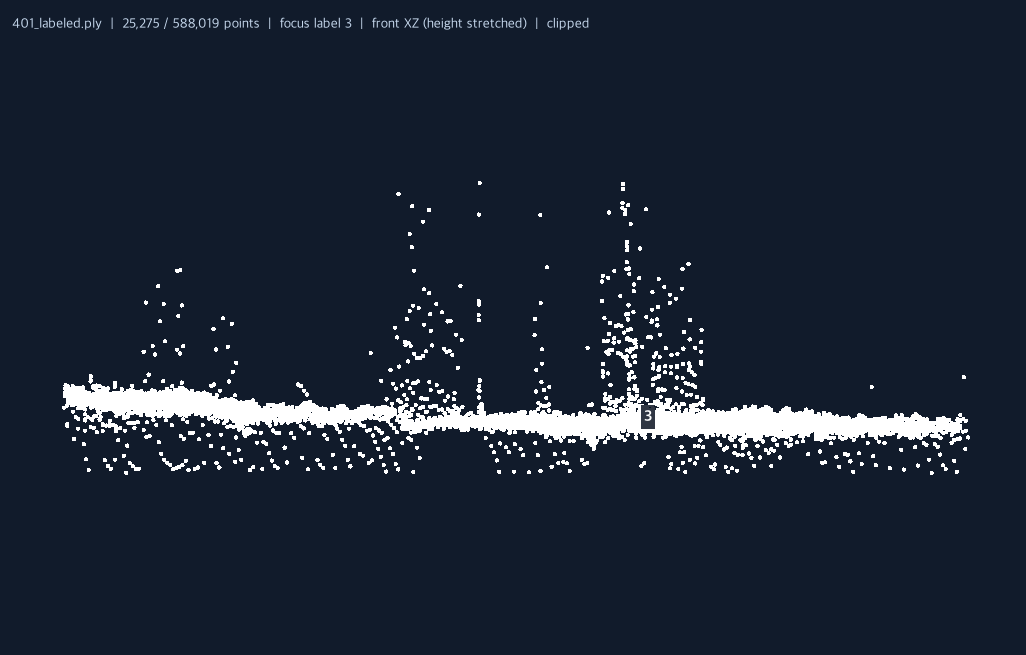
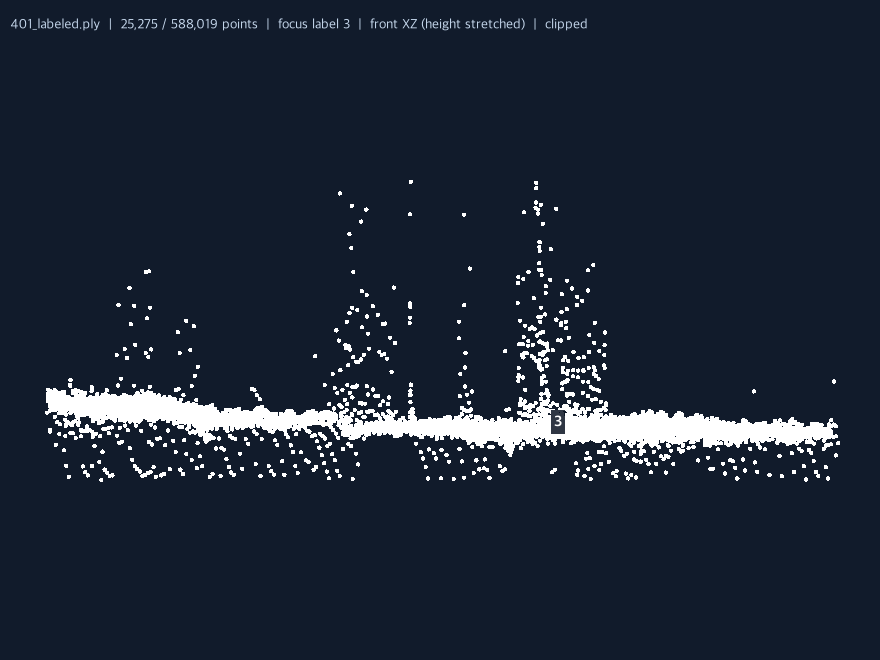
Let the mouse reach every point the canvas shows
Zooming in put a third of the visible cloud beyond the mouse. mplot3d squares
its axes rectangle and an equal aspect shrinks one, so on a wide canvas the
axes covered the middle only, while the cloud was painted across the whole
figure. Events outside that rectangle have no axes, so the lasso, the click,
the wheel and the rotate drag all ignored them. Four notches of zoom left 32%
of the drawn points dead in 3D and 22% in the top view.

3D now gets a square rectangle that contains the canvas instead of one that
fits inside it, with the extra size taken back out of the zoom, so the cloud
renders exactly as before. The flat views fill the canvas and hold equal
scaling by widening their limits rather than shrinking the box. A resize
relays out once it settles.

A click also took the point nearest in screen space with no regard for depth,
so one click in five chose something hidden behind what it looked like it was
on. It now takes the point nearest the viewer from under the cursor: in front
in 3D, highest in the top view.

Claude-Session: https://claude.ai/code/session_01KoxE51wjqjnCwMdvaxZ6NS

diff --git a/app.py b/app.py
@@ -1,6 +1,6 @@
 """Desktop interface: local prediction, point selection, correction and safe export."""
 from pathlib import Path
-import json,queue,threading,time,traceback
+import json,logging,queue,threading,time,traceback
 import tkinter as tk
 from tkinter import ttk,filedialog,messagebox
 import numpy as np
@@ -15,6 +15,9 @@ from viewer import BACKGROUND,display_indices,point_colors
 import theme
 
 ROOT=Path(__file__).resolve().parent
+# Widening one axis to hold the scale equal is exactly what the flat views ask
+# for, and matplotlib says so on every draw of one.
+logging.getLogger('matplotlib.axes._base').addFilter(lambda record:'fixed data aspect' not in record.getMessage())
 # Matplotlib rasterizes every point on every frame, so a moving view is only as
 # smooth as the point count: ~2us/point here. Swap to this many while the camera
 # moves, then settle back to full detail once it stops. Marker size costs almost
@@ -38,7 +41,7 @@ class App:
   self.focus=None;self.side=False;self.pick_highlight=False
   self.isolated=False;self.direction='위';self.clip_bounds=None;self.clip_timer=None
   self.full_artist=None;self.lod_artist=None;self.moving=False;self.settle_timer=None;self.labels_version=0;self.centers=None
-  self.press_key=None;self.pan_from=None;self.views={}
+  self.press_key=None;self.pan_from=None;self.views={};self.canvas_size=None;self.resize_timer=None
   config_path=ROOT/'model_config.json'
   self.model_options=json.loads(config_path.read_text()) if config_path.exists() else {'기본 모델':{'file':'model.joblib','split':.1}}
   self.active_model_name=next(iter(self.model_options));self.active_model_file=ROOT/self.model_options[self.active_model_name]['file']
@@ -117,6 +120,7 @@ class App:
   self.canvas=FigureCanvasTkAgg(self.fig,master=right);self.canvas.get_tk_widget().pack(fill='both',expand=True)
   self.toolbar=Toolbar(self.canvas,right);self.lasso=None
   theme.style_toolbar(self.toolbar,fonts)
+  self.canvas.get_tk_widget().bind('<Configure>',self.on_resize)
   self.canvas.mpl_connect('scroll_event',self.zoom)
   self.canvas.mpl_connect('button_press_event',self.start_move)
   self.canvas.mpl_connect('motion_notify_event',self.pan_move)
@@ -240,6 +244,15 @@ class App:
      self.status.set(f'{self.current.name} · {len(self.labels):,}점 · 부자재 {self.info["objects"]}개 추정 · 경계/불확실 점 {self.info["review_fraction"]:.1%} · 자동 초안');self.draw()
   except queue.Empty:pass
   self.win.after(100,self.poll)
+ def on_resize(self,event):
+  """The rectangle that catches the mouse is shaped from the canvas, so redraw once it settles."""
+  size=(event.width,event.height)
+  if size==self.canvas_size:return
+  self.canvas_size=size
+  if self.resize_timer is not None:self.win.after_cancel(self.resize_timer)
+  self.resize_timer=self.win.after(200,self.settle_resize)
+ def settle_resize(self):
+  self.resize_timer=None;self.draw()
  def fit_view(self):self.views.pop(self.view_key(),None);self.reset_view=True;self.draw()
  def plane(self):return ((1,2) if getattr(self,'direction','앞')=='옆' else (0,2)) if self.side else (0,1)
  def reset_clip(self,redraw=True):
@@ -386,7 +399,14 @@ class App:
    elif self.views.get(self.view_key()) is not None:camera,limits=self.views[self.view_key()]
   if self.lasso:self.lasso.disconnect_events();self.lasso=None
   self.cancel_settle();self.moving=False;self.full_artist=None;self.lod_artist=None
-  self.fig.clear();self.fig.set_facecolor(BACKGROUND);self.ax=self.fig.add_axes([.01,.01,.98,.98],projection='3d' if self.view3d else None)
+  # The mouse only reaches points inside the axes rectangle, so that rectangle
+  # has to cover the whole canvas. mplot3d insists on a square one, so hand it
+  # a square that contains the canvas rather than one that fits inside it, and
+  # take the extra size back out of the zoom.
+  width,height=self.canvas.get_width_height();square=max(width,height)
+  fills=bool(width and height)
+  rect=[(width-square)/2/width,(height-square)/2/height,square/width,square/height] if self.view3d and fills else [0,0,1,1]
+  self.fig.clear();self.fig.set_facecolor(BACKGROUND);self.ax=self.fig.add_axes(rect,projection='3d' if self.view3d else None)
   self.ax.set_facecolor(BACKGROUND);self.ax.set_axis_off()
   if self.labels is None:
    self.fig.text(.5,.5,'왼쪽에서 PLY 파일을 추가한 뒤 열어 주세요',ha='center',va='center',color=theme.MUTED,fontsize=11)
@@ -402,7 +422,8 @@ class App:
     self.ax.mouse_init(rotate_btn=3,pan_btn=2,zoom_btn=[])
     self.full_artist=self.ax.scatter(pts[:,0],pts[:,1],pts[:,2],c=colors,s=size,depthshade=False,linewidths=0,antialiased=False)
     self.add_lod(pts,colors,size)
-    extent=np.maximum(np.ptp(fit,axis=0),1);self.ax.set_box_aspect(extent,zoom=1.12)
+    extent=np.maximum(np.ptp(fit,axis=0),1)
+    self.ax.set_box_aspect(extent,zoom=1.12*(.98*min(width,height)/square if fills else 1))
     self.ax.view_init(*(camera or (55,-65,0)))
     if limits:
      self.ax.set_xlim(limits[0]);self.ax.set_ylim(limits[1]);self.ax.set_zlim(limits[2])
@@ -412,16 +433,18 @@ class App:
    else:
     h,v=self.plane()
     self.full_artist=self.ax.scatter(pts[:,h],pts[:,v],c=colors,s=size,linewidths=0,antialiased=False);self.add_lod(pts,colors,size)
-    self.ax.set_aspect('auto' if self.side and self.stretch.get() else 'equal')
+    # Equal scaling shrinks the axes box by default, which would put part of
+    # the cloud outside it; widen the limits instead and keep the full canvas.
+    if self.side and self.stretch.get():self.ax.set_aspect('auto')
+    else:self.ax.set_aspect('equal',adjustable='datalim')
     if limits:self.ax.set_xlim(limits[0]);self.ax.set_ylim(limits[1])
     else:
      for axis,k in (('x',h),('y',v)):
       lo,hi=fit[:,k].min(),fit[:,k].max();pad=max((hi-lo)*.05,1) if self.side else 20
       getattr(self.ax,'set_'+axis+'lim')(lo-pad,hi+pad)
    self.lasso=LassoSelector(self.ax,self.select,button=1,props=dict(color='white',linewidth=1.5))
-   # mplot3d forces its axes region square (Axes3D.apply_aspect), which on a wide canvas
-   # leaves wide empty margins and cuts the cloud off well inside them. Paint over the
-   # whole figure instead of stopping at the axes rectangle.
+   # Belt and braces with the covering rectangle above: never stop painting at
+   # the axes edge, which used to cut the cloud off inside the canvas.
    for artist in (self.full_artist,self.lod_artist):
     if artist is not None:artist.set_clip_on(False)
    if self.show_numbers.get():
@@ -451,6 +474,11 @@ class App:
   if not self.view3d:return self.xyz[:,self.plane()]
   xs,ys,_=proj3d.proj_transform(self.xyz[:,0],self.xyz[:,1],self.xyz[:,2],self.ax.get_proj())
   return np.column_stack([xs,ys])
+ def viewer_depth(self):
+  """How near the viewer each point is, larger being nearer."""
+  if self.view3d:return proj3d.proj_transform(self.xyz[:,0],self.xyz[:,1],self.xyz[:,2],self.ax.get_proj())[2]
+  # A flat view drops one axis, and the viewer stands on its near side.
+  return {(0,1):self.xyz[:,2],(0,2):-self.xyz[:,1],(1,2):-self.xyz[:,0]}[self.plane()]
  def select(self,vertices):
   if self.busy or self.labels is None:return
   vertices=np.asarray(vertices,dtype=float)
@@ -476,6 +504,9 @@ class App:
     self.selected=None;self.pick_highlight=False;self.status.set('점 선택을 해제했습니다. 옆에서 보기와 부재 고정은 유지됩니다.');self.draw()
    else:self.clear_selection()
    return
+  # Of everything under the cursor take the nearest to the viewer, so a click
+  # lands on what it looks like it is on and not on something hidden behind.
+  near=int(np.argmax(np.where(gap<=PICK_RADIUS**2,self.viewer_depth(),-np.inf)))
   lab=int(self.labels[near])
   if lab==1 and not self.show_pallet.get():self.clear_selection();return
   whole=(self.labels==lab)&self.visible_mask()

diff --git a/test_app_view_smoke.py b/test_app_view_smoke.py
@@ -77,6 +77,22 @@ def main():
         root.update()
         assert app.selected is not None and app.selected.sum()>=(app.labels==3).sum()
         app.clear_selection();app.set_direction('3D');root.update()
+        # Zooming in used to push a third of the cloud outside the axes
+        # rectangle, where no click or drag could reach it.
+        for direction in ('3D','위','앞'):
+            app.set_direction(direction);root.update()
+            w,h=app.canvas.get_width_height()
+            for _ in range(4):
+                MouseEvent('scroll_event',app.canvas,w/2,h/2,step=1)._process()
+            app.cancel_settle();app.settle();root.update()
+            pixels=app.ax.transData.transform(app.screen_xy())
+            x0,y0,bw,bh=app.ax.bbox.bounds
+            drawn=(pixels[:,0]>=0)&(pixels[:,0]<=w)&(pixels[:,1]>=0)&(pixels[:,1]<=h)
+            reachable=(pixels[:,0]>=x0)&(pixels[:,0]<=x0+bw)&(pixels[:,1]>=y0)&(pixels[:,1]<=y0+bh)
+            assert drawn.any(),direction
+            assert not (drawn&~reachable).any(),(direction,int((drawn&~reachable).sum()))
+            app.fit_view();root.update()
+        app.set_direction('위');root.update()
         app.set_direction('2D');root.update()
         assert not app.view3d and app.ax.name!='3d'
         assert app.view_buttons['2D'].cget('style')=='On.TButton'

diff --git a/test_app_selection.py b/test_app_selection.py
@@ -55,7 +55,8 @@ class SelectionTests(unittest.TestCase):
 
     def test_pick_hidden_pallet_filters_before_nearest_search(self):
         a=self.a;a.show_pallet.set(False)
-        a.pick((0,0))
+        a.labels=np.array([3,2,1,2,3])   # the pallet now sits on top of the stack
+        a.pick((0.,0.))
         self.assertEqual(a.focus,2);self.assertTrue(np.all(a.labels[a.selected]==2))
 
     def test_clear_leaves_side_and_releases_focus(self):
@@ -85,6 +86,15 @@ class SelectionTests(unittest.TestCase):
     def test_hidden_old_selection_cannot_be_applied(self):
         a=self.clipping();a.selected=a.labels==2
         a.assign();np.testing.assert_array_equal(a.labels,[1,4,3,2,3])
+
+    def test_click_takes_the_top_of_a_stack_not_the_bottom(self):
+        a=self.a
+        # Points 0, 1 and 2 share one XY spot at heights 0, 5 and 10.
+        a.pick((0.,0.))
+        self.assertEqual(a.focus,3)
+        a.view3d=False;a.side=True;a.direction='앞'
+        self.assertEqual(a.plane(),(0,2))
+        np.testing.assert_array_equal(a.viewer_depth(),-a.xyz[:,1])
 
     def test_direction_switches_plane_and_leaves_isolation_alone(self):
         a=self.a;a.focus=2

diff --git a/사용법.md b/사용법.md
@@ -124,7 +124,7 @@
 | 조작 | 동작 |
 |---|---|
 | 왼쪽 드래그 | 그린 영역 안의 점을 선택합니다. 선택한 점은 흰색이 됩니다 |
-| 왼쪽 클릭 | 클릭한 부재 전체를 선택하고 그 부재로 **고정**합니다 |
+| 왼쪽 클릭 | 클릭한 부재 전체를 선택하고 그 부재로 **고정**합니다. 커서 아래에 여러 부재가 겹쳐 있으면 가장 앞의 것을 고릅니다 |
 | 같은 부재 다시 클릭 / 빈 곳 클릭 | 선택과 고정을 해제합니다 |
 | Shift + 왼쪽 드래그 | 지금 선택에 더합니다 |
 | Alt + 왼쪽 드래그 | 지금 선택에서 뺍니다 |
@@ -146,7 +146,9 @@
 
 **보는 방법을 바꿔도 선택은 그대로 남습니다.** 방향을 바꾸든, 따로 보기를 켜고 끄든, 구간 슬라이더를 움직이든 고른 점은 유지됩니다. 옆에서 고르고 위에서 확인한 뒤 그대로 적용할 수 있습니다. 선택을 지우는 것은 Esc, **선택 해제**, 그리고 라벨 적용뿐입니다.
 
-화면에는 속도를 위해 점의 일부만 그리지만, **영역 선택과 저장은 전체 점에 적용합니다.**
+클릭은 **보는 사람에게 가장 가까운 점**을 고릅니다. 3D에서는 화면 앞쪽, 위에서 보기에서는 가장 높은 점입니다. 뒤에 가려진 점이 잡히지 않습니다.
+
+화면에는 속도를 위해 점의 일부만 그리지만, **영역 선택과 저장은 전체 점에 적용합니다.** 화면에 보이는 점은 어디에 있든 클릭과 드래그가 닿습니다. 창 크기를 바꿔도 마찬가지입니다.
 
 ---
 

diff --git a/CHANGELOG.md b/CHANGELOG.md
@@ -37,6 +37,8 @@
 - 라벨을 바꾼 점의 `scalar_review_needed`를 0으로 내립니다. 사람이 확인한 점으로 봅니다.
 
 ### Fixed
+- **확대하면 화면에 보이는 점의 상당수가 클릭도 드래그도 되지 않던 문제.** 네 칸 확대한 화면 기준으로 3D는 그려진 점의 32%, 위에서 보기는 22%가 마우스에 반응하지 않았습니다. matplotlib이 3D 축 영역을 정사각형으로 잡고 같은 비율 보기의 축 영역을 줄이는데, 점군은 그 바깥까지 그려졌기 때문입니다. 축 영역이 화면 전체를 덮도록 바꿨고, 창 크기를 바꾸면 다시 맞춥니다. 화면에 보이는 크기와 위치는 그대로입니다.
+- **3D에서 클릭이 눈에 보이는 부재 대신 뒤에 가려진 것을 고르던 문제.** 다섯 번에 한 번 꼴이었습니다. 이제 커서 아래에서 보는 사람에게 가장 가까운 점을 고릅니다. 위에서 보기에서는 가장 높은 점입니다.
 - **가려진 하나의 부자재를 여러 물체로 나누던 과분할.** 401번은 정답 9개에 자동 15개였으나 v5에서 9개가 됐습니다.
 - **부자재에 둘러싸인 팔레트 점이 부자재로 바뀌던 문제.** 171번에서 물체 7에 붙은 정답 팔레트 점이 35,146개에서 66개로 줄었습니다.
 - 부재를 다른 번호로 모두 바꿔 라벨이 사라지면 고정과 보는 방향이 함께 풀립니다. 저장하며 번호를 정리할 때는 고정 번호도 새 번호를 따라갑니다.
